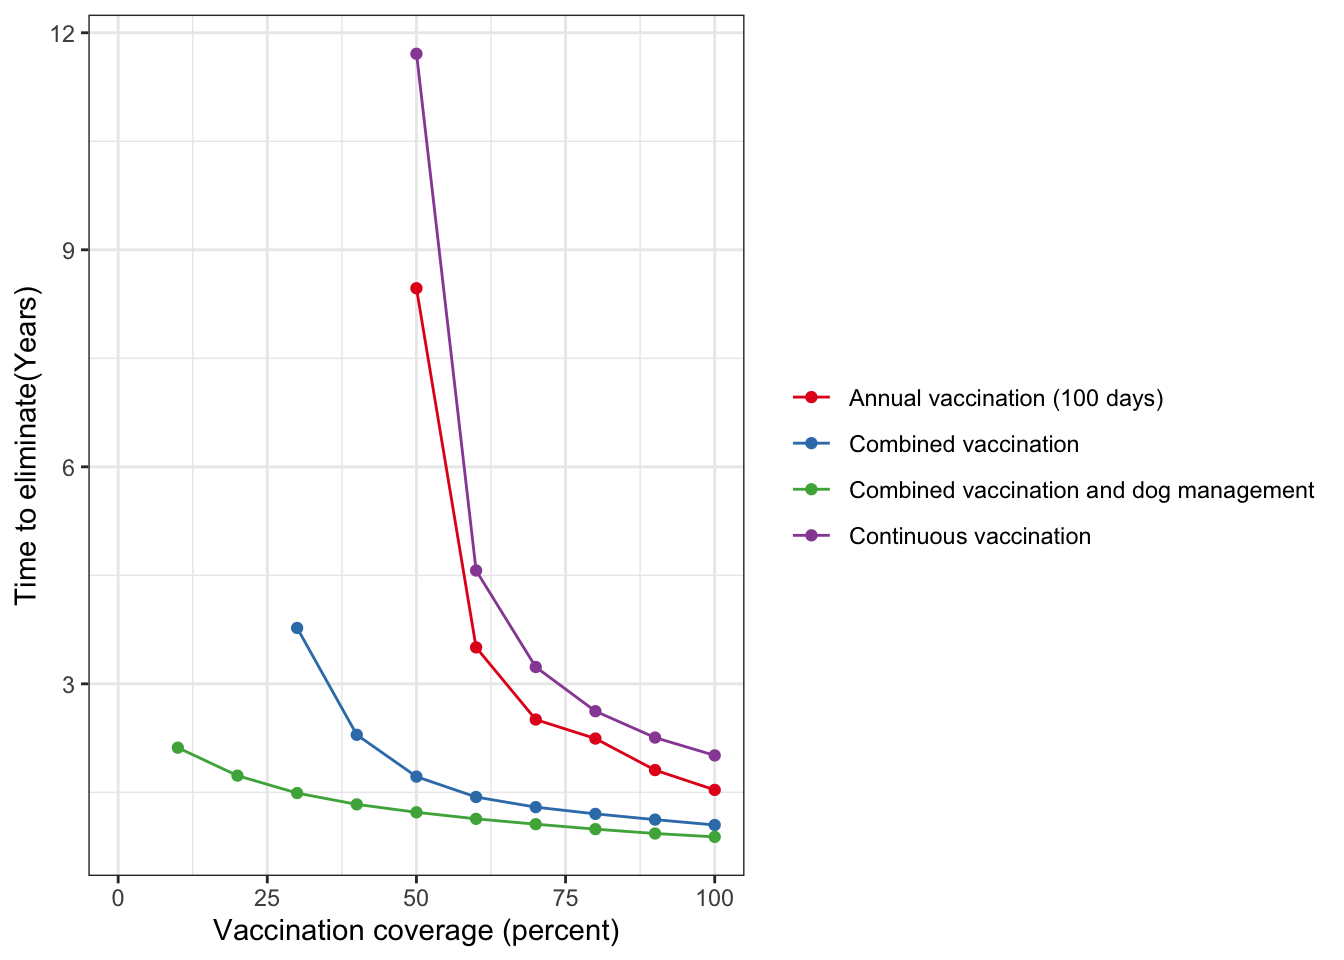
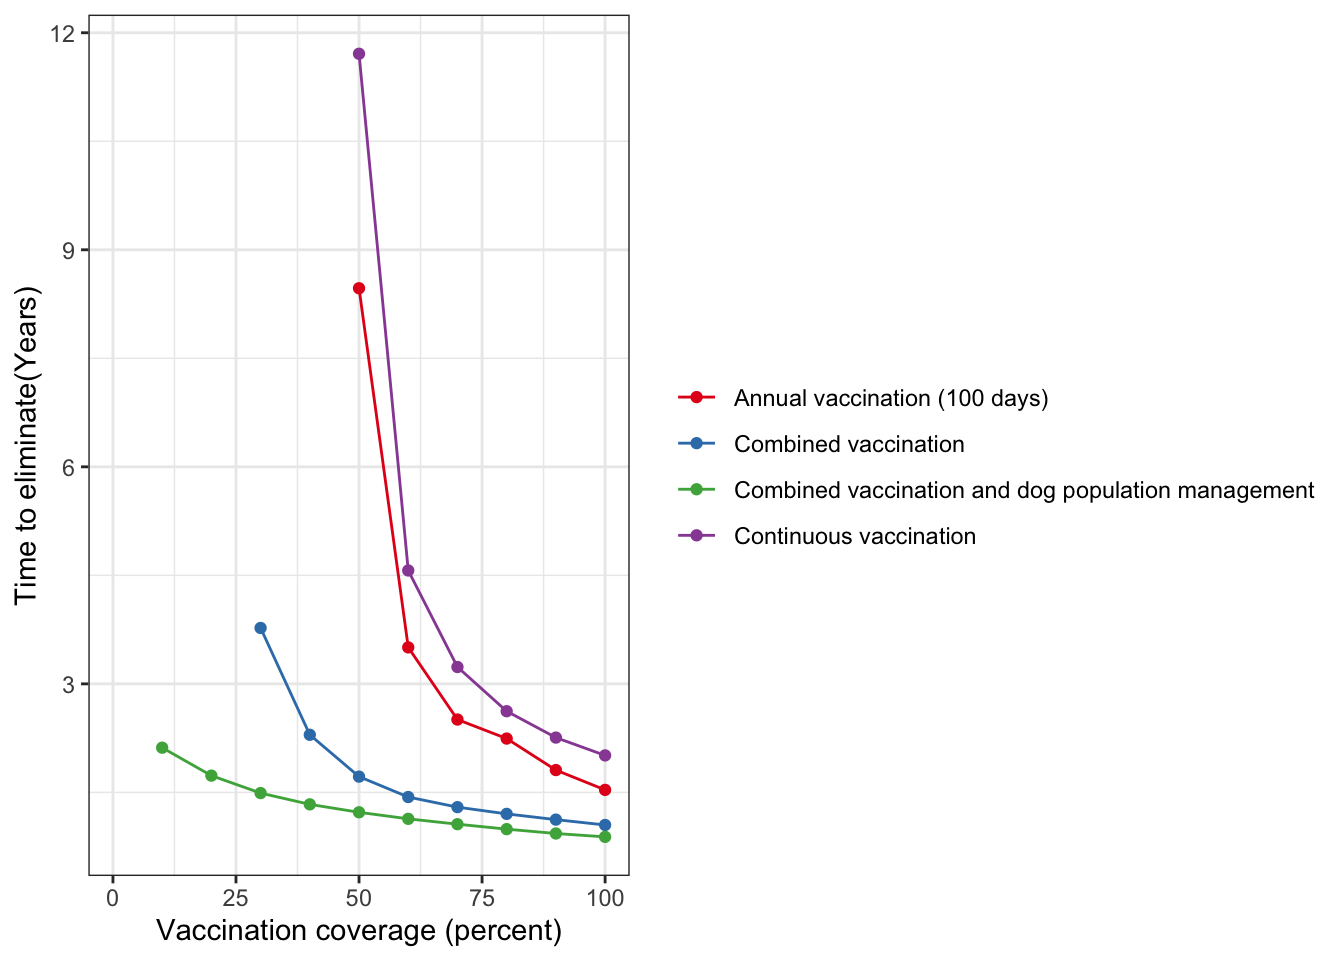
included all the scenarios

diff --git a/rabies_model.html b/rabies_model.html
@@ -181,6 +181,42 @@ Dog population management
 </div>
 </div>
 </section>
+<section id="annual-vaccination-100-days-with-dog-population-management" class="level4">
+<h4 class="anchored" data-anchor-id="annual-vaccination-100-days-with-dog-population-management">Annual vaccination (100 days) with dog population management</h4>
+<div class="cell">
+<div class="cell-output-display">
+<p><img src="rabies_model_files/figure-html/unnamed-chunk-14-1.png" class="img-fluid" width="672"></p>
+</div>
+</div>
+<div class="cell">
+<div class="cell-output-display">
+<p><img src="rabies_model_files/figure-html/unnamed-chunk-15-1.png" class="img-fluid" width="672"></p>
+</div>
+</div>
+<div class="cell">
+<div class="cell-output-display">
+<p><img src="rabies_model_files/figure-html/unnamed-chunk-16-1.png" class="img-fluid" width="672"></p>
+</div>
+</div>
+</section>
+<section id="continuous-vaccination-with-dog-population-management" class="level4">
+<h4 class="anchored" data-anchor-id="continuous-vaccination-with-dog-population-management">Continuous vaccination with dog population management</h4>
+<div class="cell">
+<div class="cell-output-display">
+<p><img src="rabies_model_files/figure-html/unnamed-chunk-17-1.png" class="img-fluid" width="672"></p>
+</div>
+</div>
+<div class="cell">
+<div class="cell-output-display">
+<p><img src="rabies_model_files/figure-html/unnamed-chunk-18-1.png" class="img-fluid" width="672"></p>
+</div>
+</div>
+<div class="cell">
+<div class="cell-output-display">
+<p><img src="rabies_model_files/figure-html/unnamed-chunk-19-1.png" class="img-fluid" width="672"></p>
+</div>
+</div>
+</section>
 </section>
 </section>
 
